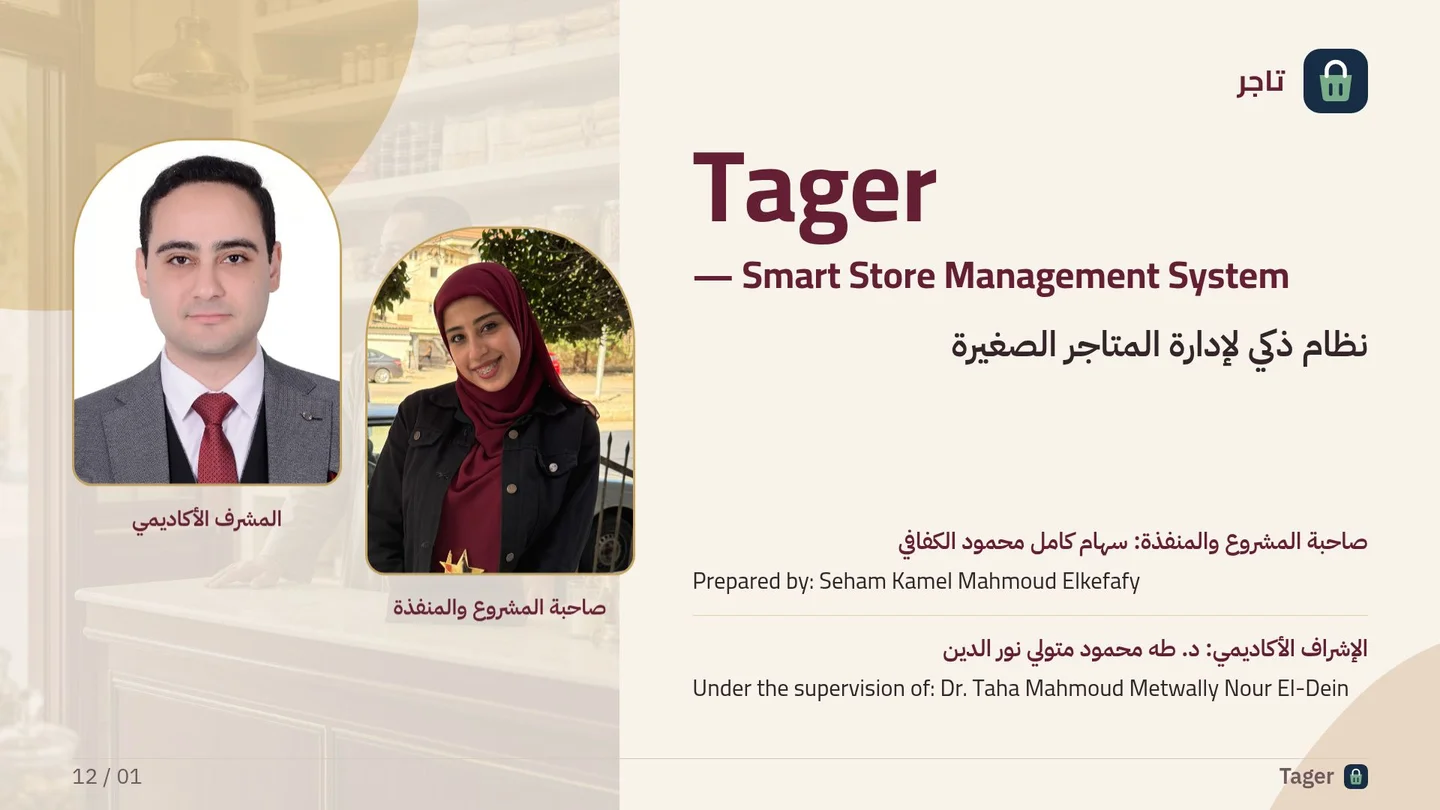
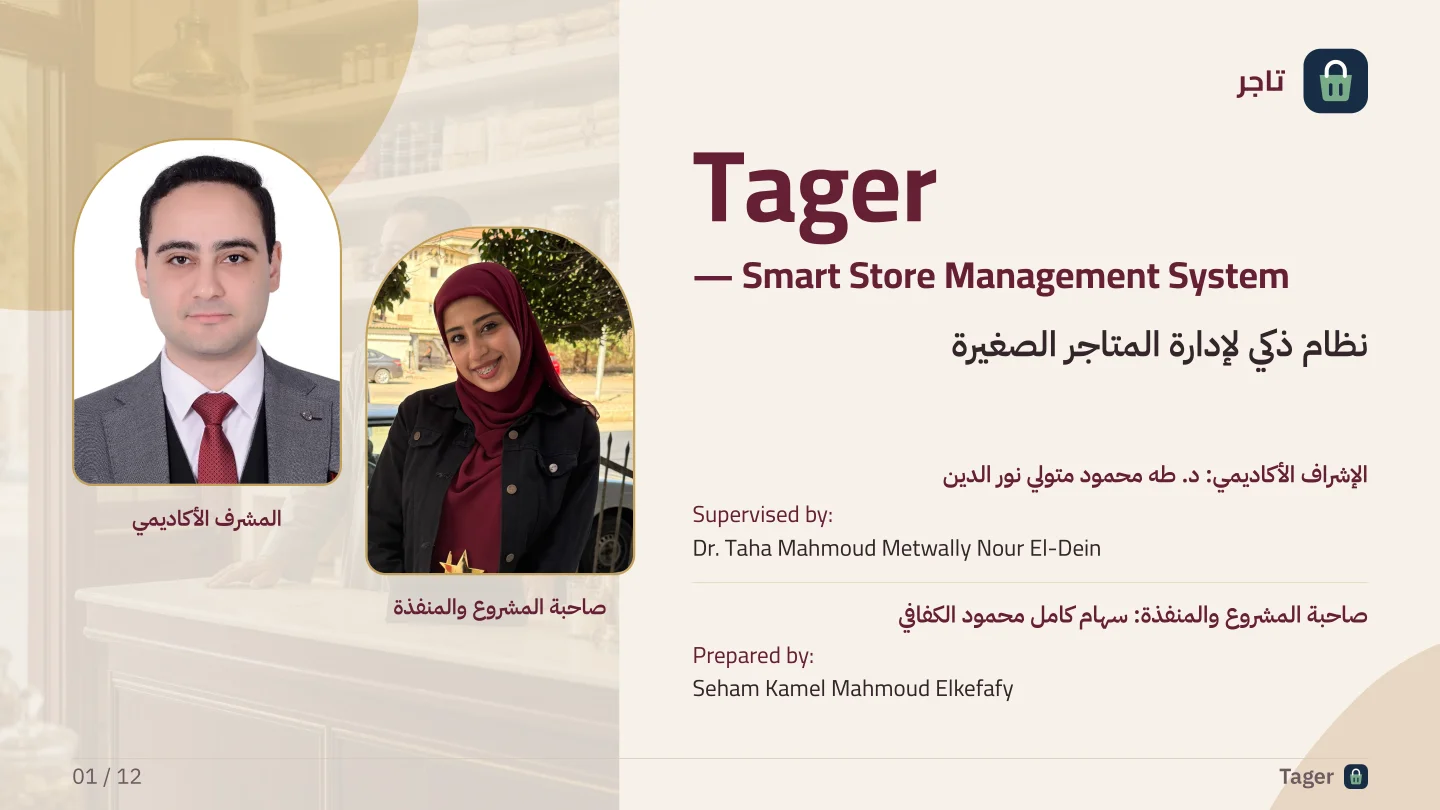
Update presentation assets and cover image metadata
Replit-Commit-Author: Agent

diff --git a/artifacts/tager-presentation/src/pages/slides/Cover.tsx b/artifacts/tager-presentation/src/pages/slides/Cover.tsx
@@ -13,8 +13,8 @@ export default function Cover() {
         <h1 className="mt-[2vh]"><span className="en block !text-[7vw] leading-[1.1]">Tager</span><span className="en block !text-[2.6vw] mt-[1vh]">— Smart Store Management System</span></h1>
         <p className="mt-[2vh] !text-[2.45vw] font-semibold">نظام ذكي لإدارة المتاجر الصغيرة</p>
         <div className="mt-auto space-y-[2.2vh] pb-[1vh]">
-          <div><p className="attribution text-primary font-semibold">صاحبة المشروع والمنفذة: سهام كامل محمود الكفافي</p><p className="attribution en mt-[.7vh] text-left">Prepared by: Seham Kamel Mahmoud Elkefafy</p></div>
-          <div className="border-t border-accent/40 pt-[2vh]"><p className="attribution text-primary font-semibold">الإشراف الأكاديمي: د. طه محمود متولي نور الدين</p><p className="attribution en mt-[.7vh] text-left">Under the supervision of: Dr. Taha Mahmoud Metwally Nour El-Dein</p></div>
+          <div><p className="attribution text-primary font-semibold">الإشراف الأكاديمي: د. طه محمود متولي نور الدين</p><p className="attribution en mt-[.7vh] text-left"><span className="block text-primary font-semibold">Supervised by:</span><span className="block">Dr. Taha Mahmoud Metwally Nour El-Dein</span></p></div>
+          <div className="border-t border-accent/40 pt-[2vh]"><p className="attribution text-primary font-semibold">صاحبة المشروع والمنفذة: سهام كامل محمود الكفافي</p><p className="attribution en mt-[.7vh] text-left"><span className="block text-primary font-semibold">Prepared by:</span><span className="block">Seham Kamel Mahmoud Elkefafy</span></p></div>
         </div>
       </div>
       <div className="grid grid-cols-2 gap-[1.6vw] items-center enter-later">

diff --git a/artifacts/tager-presentation/scripts/finalize-powerpoint.py b/artifacts/tager-presentation/scripts/finalize-powerpoint.py
@@ -105,7 +105,8 @@ path = Path(sys.argv[1])
 layout = json.loads(Path(sys.argv[2]).read_text())
 with zipfile.ZipFile(path) as source:
     contents = {name: source.read(name) for name in source.namelist()}
-for index, models in enumerate(layout, 1):
+selected_layout = layout[:1] if "--cover-only" in sys.argv[3:] else layout
+for index, models in enumerate(selected_layout, 1):
     name = f"ppt/slides/slide{index}.xml"
     root = ET.fromstring(contents[name])
     tree = root.find("p:cSld/p:spTree", NS)
@@ -143,4 +144,4 @@ with zipfile.ZipFile(temporary, "w", compression=zipfile.ZIP_DEFLATED) as target
     for name, value in contents.items():
         target.writestr(name, value)
 temporary.replace(path)
-print("Finalized 12 editable RTL slides with 12 native fade transitions and entrance animations.")
+print(f"Finalized {len(selected_layout)} editable RTL slide(s) with native fade transitions and entrance animations.")
